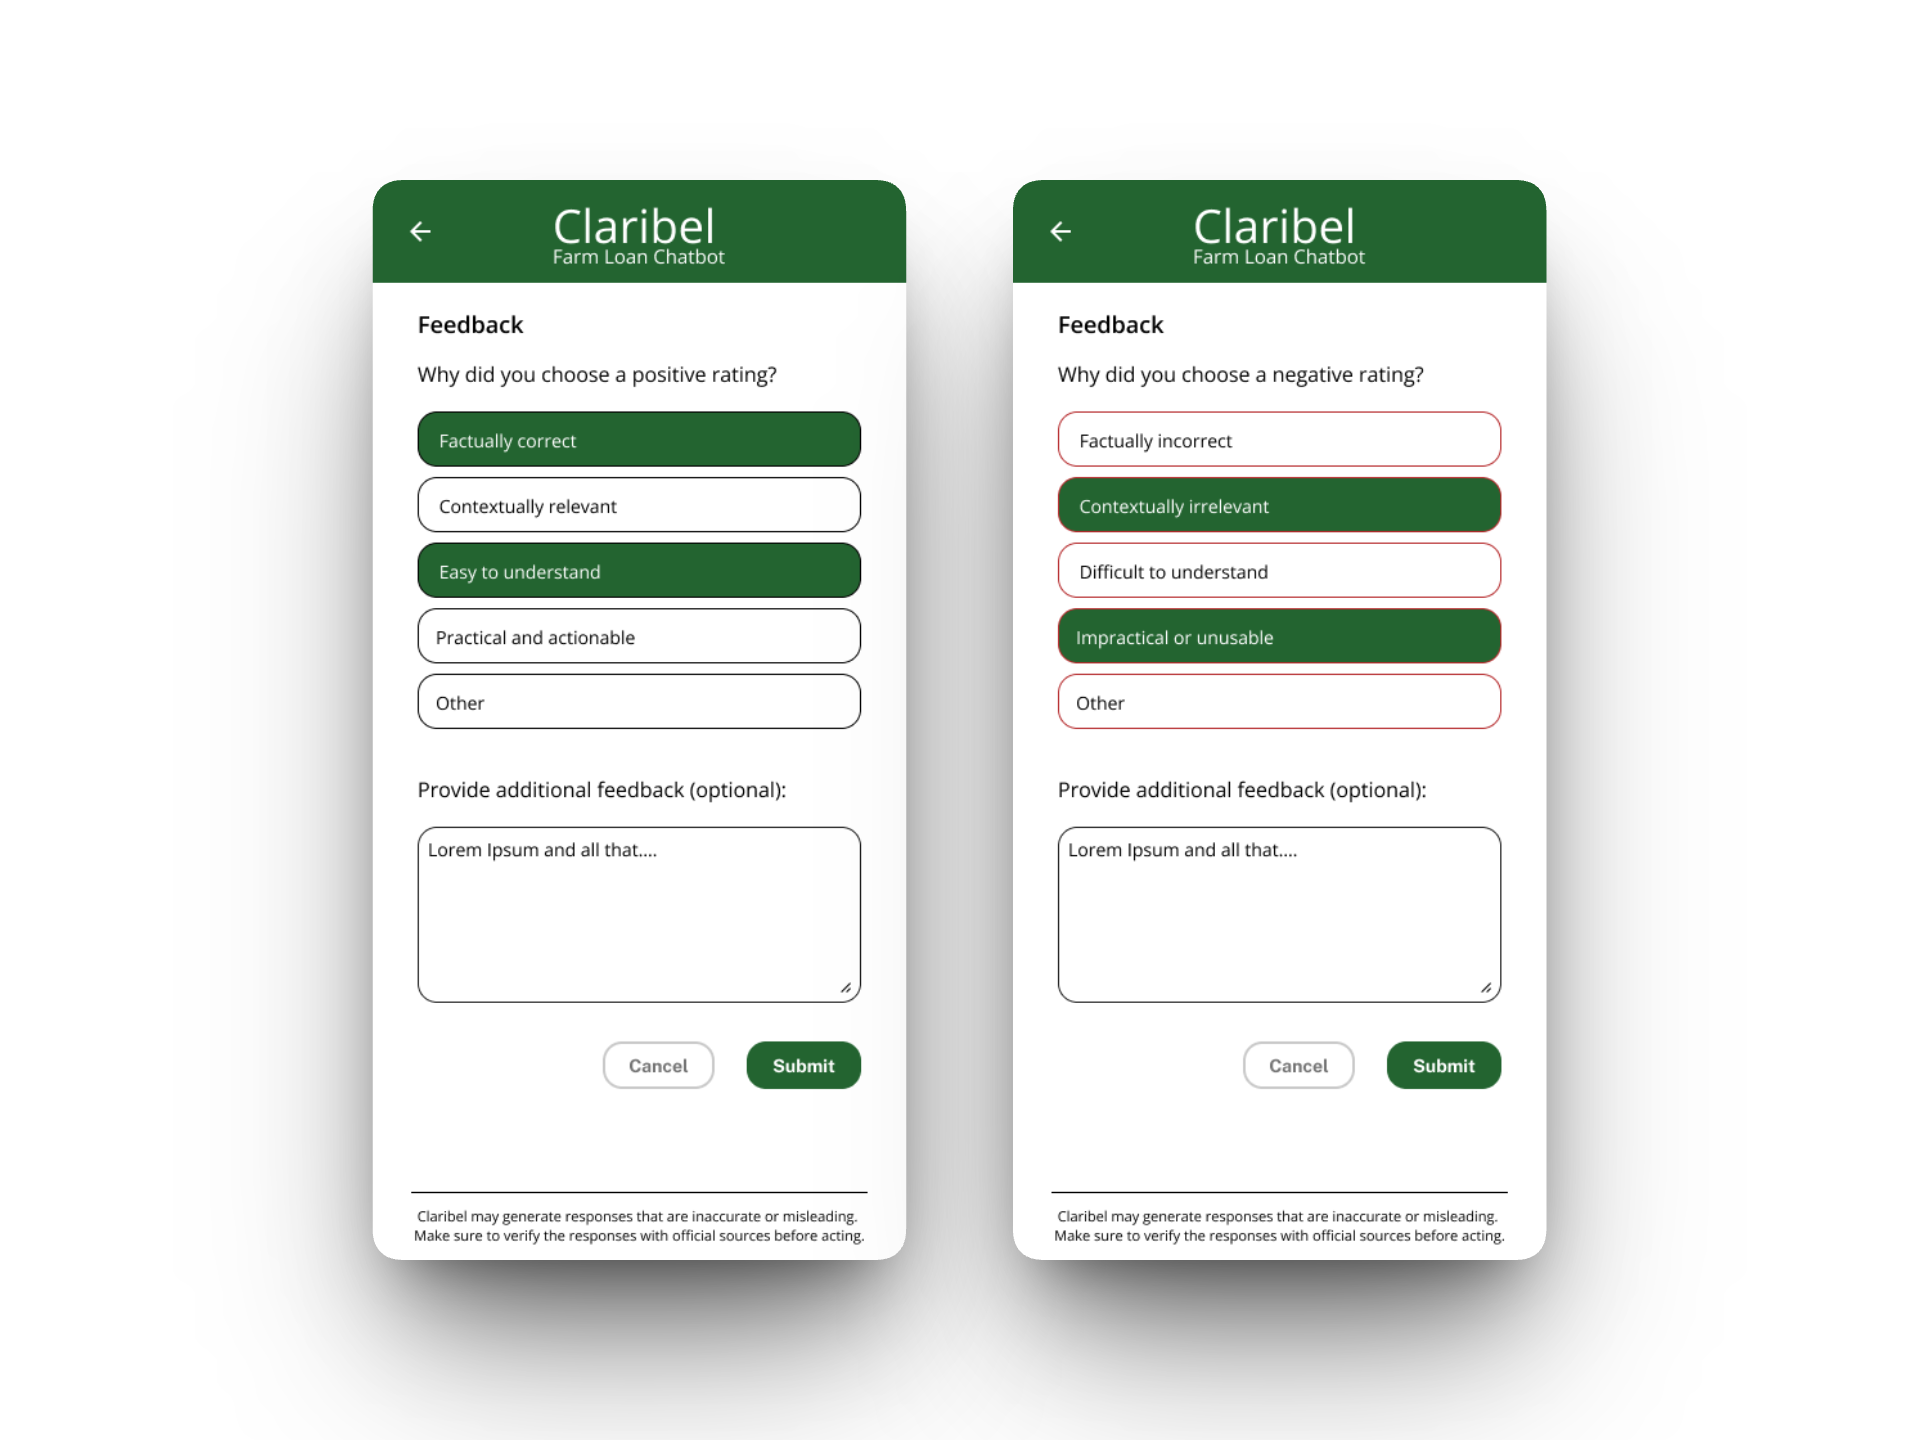
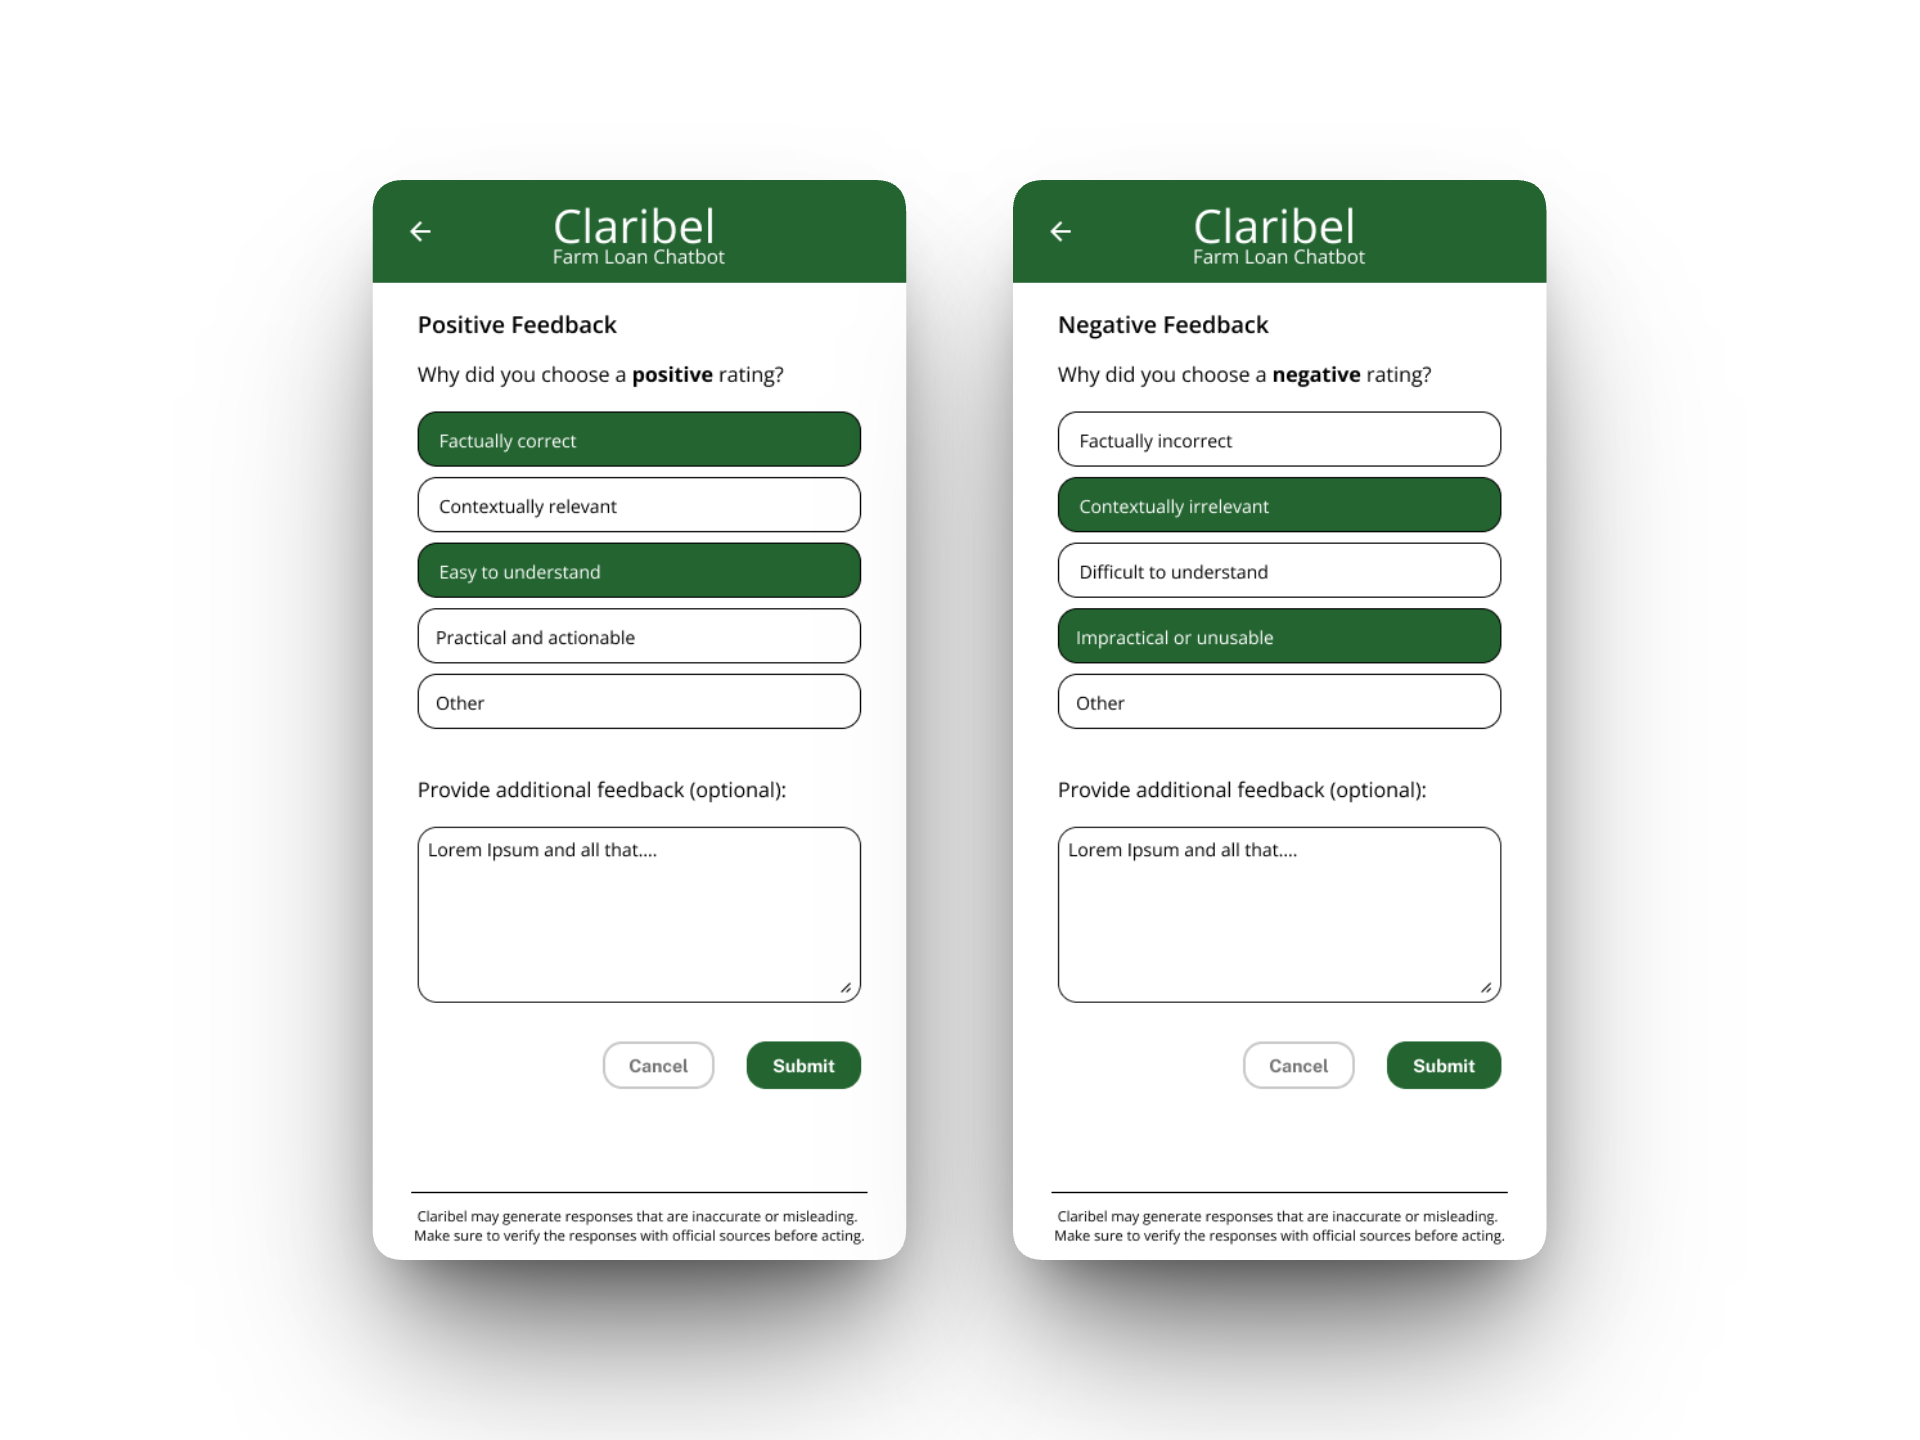
Update feedback form description and replace feedback form image

diff --git a/claribel-chatbot.html b/claribel-chatbot.html
@@ -138,7 +138,7 @@
       <figure class="cs-figure">
         <img src="claribel-chatbot/feedback-form.png"
           alt="Feedback form with thumbs up/down and structured quality dimension categories">
-        <figcaption>Structured feedback captures specific quality dimensions rather than just thumbs up/down, giving the
+        <figcaption>Pressing the thumbs up/down buttons presents the user with a screen to provide structured feedback along specific quality dimensions, giving the
           team actionable improvement data.</figcaption>
       </figure>
 
